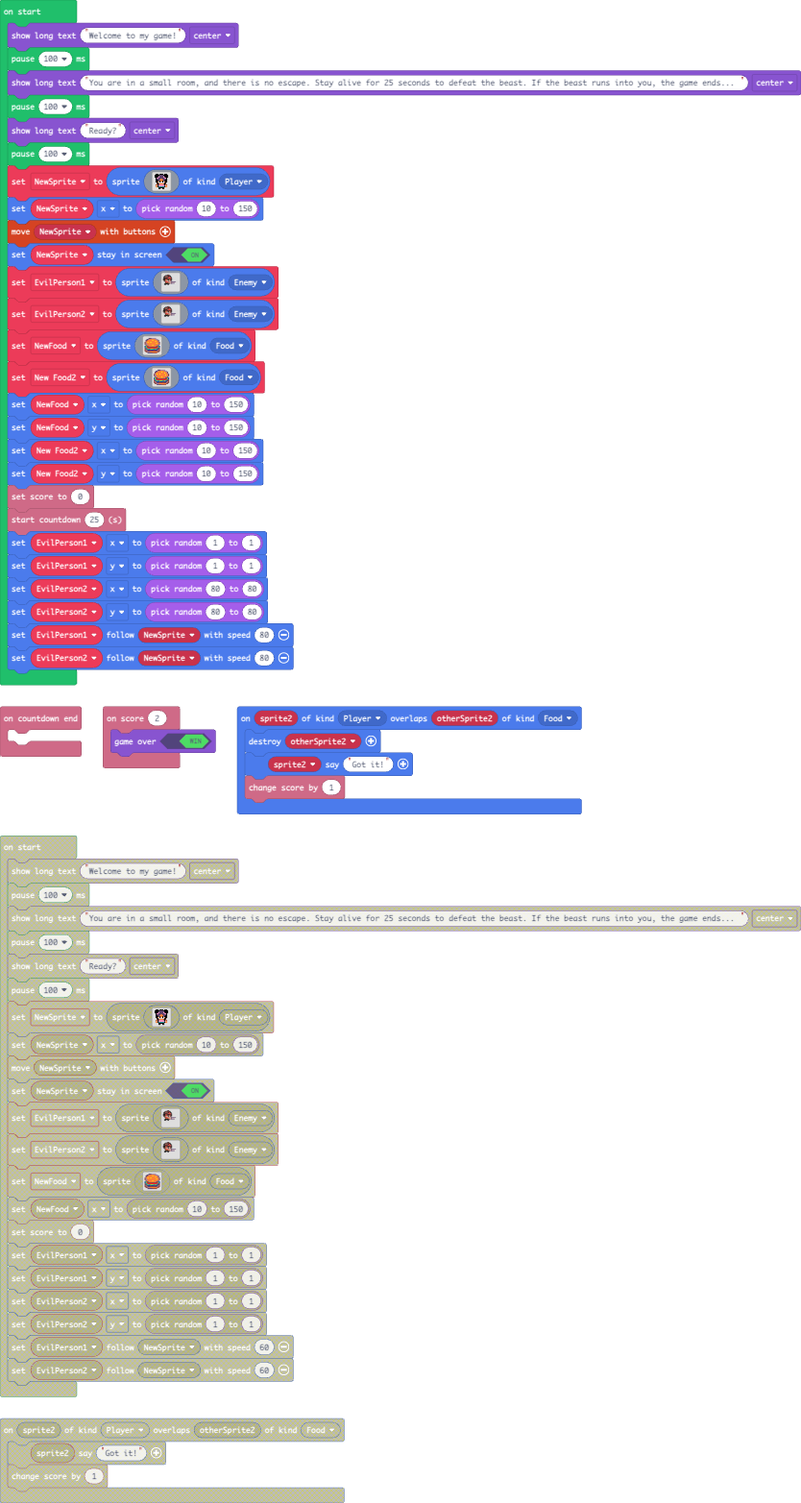
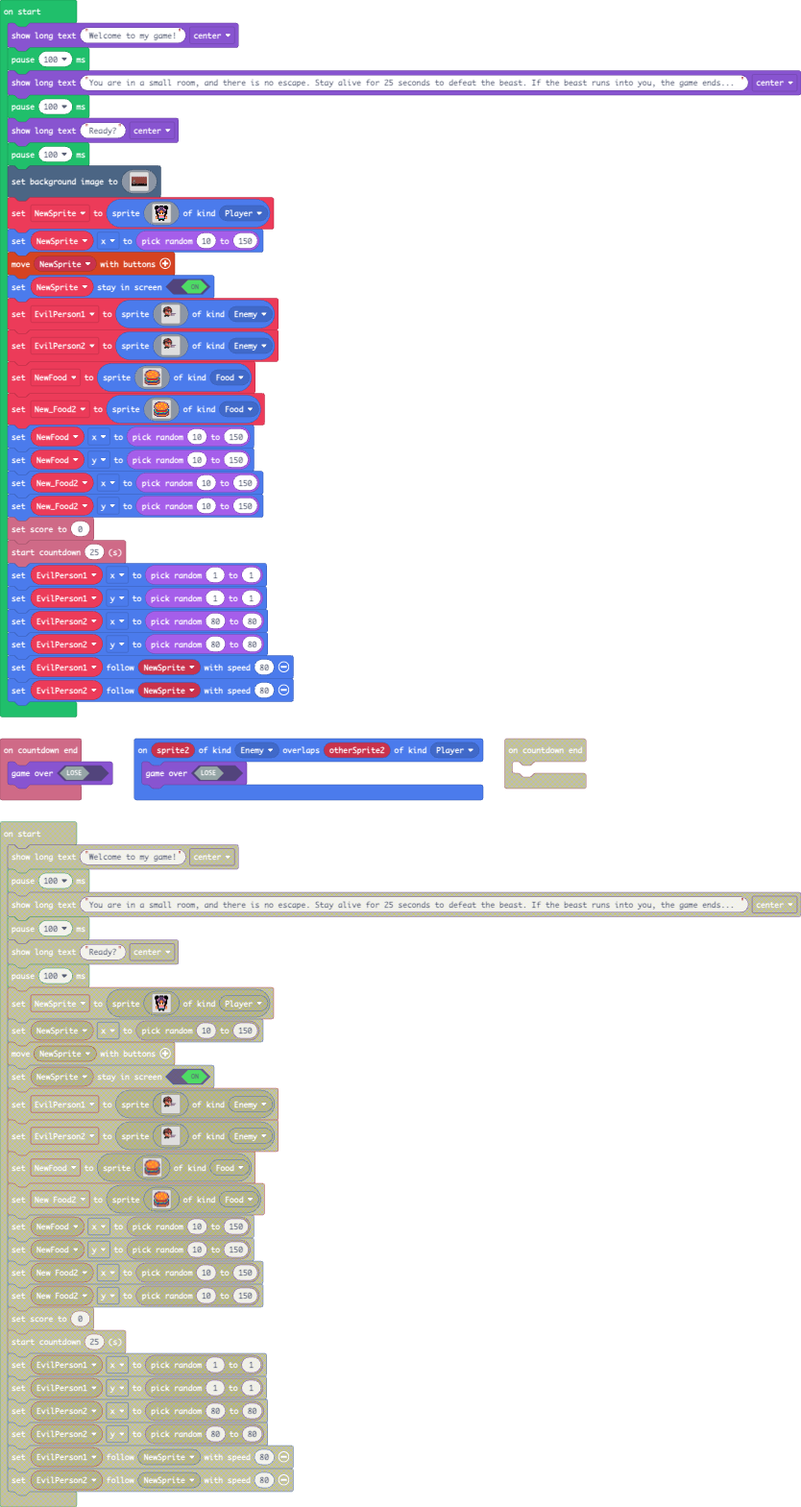
Update pxt.json, main.blocks, main.ts, main.py, tilemap.g.jres, tilemap.g.ts

Changed region(s): [[0.0, 0.0613, 1.0, 1.0]]

diff --git a/main.ts b/main.ts
@@ -1,5 +1,8 @@
+sprites.onOverlap(SpriteKind.Enemy, SpriteKind.Player, function (sprite2, otherSprite2) {
+    game.gameOver(false)
+})
 info.onCountdownEnd(function () {
-	
+    game.gameOver(false)
 })
 info.onScore(2, function () {
     game.gameOver(true)
@@ -15,6 +18,102 @@ game.showLongText("You are in a small room, and there is no escape. Stay alive f
 pause(100)
 game.showLongText("Ready?", DialogLayout.Center)
 pause(100)
+scene.setBackgroundImage(img`
+    beeeeebbbbbbbbbbbebbbeeeebbbbbbbbbebbbbbbbeeeeebbbbbbbbbbbebbbeeeeebbbbbbbbebbbbbbbeeeeebbbbbbbbbbbbebbbeeeebbbbbbbbebbbbbbbeeeeebbbbbbbbbbbbebbbeeeebbbbbbbbebb
+    eeebeeeebbbbeebbbbbeeeeeeeebbeeebbbbbebbeeeebeeeebbbbeebbbbbeeeeeeeeebbeebbbbbebbeeeebeeeebbbbeebbbbbbeeeeeeeebbeebbbbbebbeeeebeeeeebbbbeebbbbbeeeeeeeebbeebbbbb
+    eeeeeeeeebbbeebbbbeebeeeeeeebeeebbbbbbbeeeeeeeeeeebbbeebbbbeebeeeeeeeebeebbbbbbbeeeeeeeeeeebbbeebbbbbeebeeeeeeebeebbbbbbbeeeeeeeeeeeebbbeebbbbeebeeeeeeebeebbbbb
+    beeeeeeeeebbbbbbbeeeeeeeeeeeebbbbbbbbbeebbeeeeeeeeebbbbbbbeeeeeeeeeeeeebbbbbbbbeebbeeeeeeeeebbbbbbbbeeeeeeeeeeeebbbbbbbbeebbeeeeeeeeeebbbbbbbeeeeeeeeeeeebbbbbbb
+    beeeeeeeeeeebbbeeeeeeeeeebbeeeeebbbbeeeebbeeeeeeeeeeebbbeeeeeeeeeeebbeeeebbbbeeeebbeeeeeeeeeeebbbbeeeeeeeeeebbeeeebbbbeeeebbeeeeeeeeeeeebbbeeeeeeeeeebbeeeebbbbe
+    eeeeeeeeeeeeeeeeeeeeeeeeebbeeeeeeeeeeeeeeeeeeeeeeeeeeeeeeeeeeeeeeeebbeeeeeeeeeeeeeeeeeeeeeeeeeeeeeeeeeeeeeeebbeeeeeeeeeeeeeeeeeeeeeeeeeeeeeeeeeeeeeeebbeeeeeeeee
+    eeeeeeeebbeeeeeebbeeeeeeeeeeebeeeeeeebeeeeeeeeeeebbeeeeeebbeeeeeeeeeeeebeeeeeebeeeeeeeeeeebbeeeeeeebbeeeeeeeeeeebeeeeeebeeeeeeeeeeeebbeeeeeebbeeeeeeeeeeebeeeeee
+    eeeeeeeebbeeeeeebbeeeeeeeeeeeeeeebbeeeeeeeeeeeeeebbeeeeeebbeeeeeeeeeeeeeeebbeeeeeeeeeeeeeebbeeeeeeebbeeeeeeeeeeeeeebbeeeeeeeeeeeeeeebbeeeeeebbeeeeeeeeeeeeeebbee
+    eeeeeeeeeeeebeeeeeeeeeeeeeeeeeeeebbeeeeeeeeeeeeeeeeeebeeeeeeeeeeeeeeeeeeeebbeeeeeeeeeeeeeeeeeebeeeeeeeeeeeeeeeeeeeebbeeeeeeeeeeeeeeeeeeebeeeeeeeeeeeeeeeeeeebbee
+    eeeeeeeeeeeeeeeeeeeeeeeeeeeeeeeeeeeeeeeeeeeeeeeeeeeeeeeeeeeeeeeeeeeeeeeeeeeeeeeeeeeeeeeeeeeeeeeeeeeeeeeeeeeeeeeeeeeeeeeeeeeeeeeeeeeeeeeeeeeeeeeeeeeeeeeeeeeeeeee
+    eeeeeeeeeeeeeeeeeeeeeeeeeeeeeeeeeeeeeeeeeeeeeeeeeeeeeeeeeeeeeeeeeeeeeeeeeeeeeeeeeeeeeeeeeeeeeeeeeeeeeeeeeeeeeeeeeeeeeeeeeeeeeeeeeeeeeeeeeeeeeeeeeeeeeeeeeeeeeeee
+    eeeeeeeeeeeeeeeeeeeeeeeeeeeeeeeeeeeeeeeeeeeeeeeeeeeeeeeeeeeeeeeeeeeeeeeeeeeeeeeeeeeeeeeeeeeeeeeeeeeeeeeeeeeeeeeeeeeeeeeeeeeeeeeeeeeeeeeeeeeeeeeeeeeeeeeeeeeeeeee
+    eeeeeeeeeeeeeeeeeeeeeeeeeeeeeeeeeeeeeeeeeeeeeeeeeeeeeeeeeeeeeeeeeeeeeeeeeeeeeeeeeeeeeeeeeeeeeeeeeeeeeeeeeeeeeeeeeeeeeeeeeeeeeeeeeeeeeeeeeeeeeeeeeeeeeeeeeeeeeeee
+    eeeeeeeeeeeeeeeeeeeeeeeeeeeeeeeeeeeeeeeeeeeeeeeeeeeeeeeeeeeeeeeeeeeeeeeeeeeeeeeeeeeeeeeeeeeeeeeeeeeeeeeeeeeeeeeeeeeeeeeeeeeeeeeeeeeeeeeeeeeeeeeeeeeeeeeeeeeeeeee
+    eeeeeeeeeeeeeeeeeeeeeeeeeeeeeeeeeeeeeeeeeeeeeeeeeeeeeeeeeeeeeeeeeeeeeeeeeeeeeeeeeeeeeeeeeeeeeeeeeeeeeeeeeeeeeeeeeeeeeeeeeeeeeeeeeeeeeeeeeeeeeeeeeeeeeeeeeeeeeeee
+    eeeeeeeeffffeeeeeeeeeeeeeeeeeeeeeeeeeeeeeeeeeeeeeeeeeeeeeeeeeeeeeeeeeeeeeeeeeeeeeeeeeeeeeeeeeeeeeeeeeeeeeeeeeeeeeeeeeeeeeeeeeeeeeeeeeeeeeeeeeeeeeeeeeeeeeeeeeeee
+    eeeeeeeefdbfeeeeeeeeeeeeeeeeeeeeeeeeeeeeeeeeeeeeeeeeeeeeeeeeeeeeeeeeeeeeeeeeeeeeeeeeeeeeeeeeeeeeeeeeeeeeeeeeeeeeeeeeeeeeeeeeeeeeeeeeeeeeeeffffeeeeeeeeeeeeeeeeee
+    eeeeeeeefdbfeeeeeeeeeeeeeeeeeeeeeeeeeeeeeeeeeeeeeeeeeeeeeeeeeeeeeeeeeeeeeeeeeeeeeeeeeeeeeeeeeeeeeeeeeeeeeeeeeeeeeeeeeeeeeeeeeeeeeeeeeeeeeeffffeeeeeeeeeeeeeeeeee
+    eeeeeeffbddfeeeeeeeeeeeeeeeeeeeeeeeeeeeeeeeeeeeeeeeeeeeeeeeeeeeeeeeeeeeeeeeeeeeeeeeeeeeeeeeeeeeeeeeeeeeeeeeeeeeeeeeeeeeeeeeeeeeeeeeeeeeeeefdbfeeeeeeeeeeeeeeeeee
+    eeeeeefddddfeeeeeeeeeeeeeeeeeeeeeeeeeeeeeeeeeeeeeeeeeeeeeeeeeeeeeeeeeeeeeeeeeeeeeeeeeeeeeeeeeeeeeeeeeeeeeeeeeeeeeeeeeeeeeeeeeeeeeeeeeeeeffbddfeeeeeeeeeeeeeeeeee
+    eeeeeefbdddffeeeeeeeeeeeeeeeeeeeeeeeeeeeeeeeeeeeeeeeeeeeeeeeeeeeeeeeeeeeeeeeeeeeeeeeeeeeeeeeeeeeeeeeeeeeeeeeeeeeeeeeeeeeeeeeeeeeeeeeeeeefddddffeeeeeeeeeeeeeeeee
+    eeeeeeffffbdffeeeeeeeeeeeeeeeeeeeeeeeeeeeeeeeeeeeeeeeeeeeeeeeeeeeeeeeeeeeeeeeeeeeeeeeeeeeeeeeeeeeeeeeeeeeeeeeeeeeeeeeeeeeeeeeeeeeeeeeeeefbdddbffeeeeeeeeeeeeeeee
+    eeeeeeeeeffddfffffeeeeeeeeeeeeeeeeeeeeeeeeeeeeeeeeeeeeeeeeeeeeeeeeeeeeeeeeeeeeeeeeeeeeeeeeeeeeeeeeeeeeeeeeeeeeeeeeeeeeeeeeeeeeeeeeeeeeeefffffddffeeeeeeeeeeeeeee
+    eeeeeeeeeeffbdddbfeeeeeeeeeeeeeeeeeeeeeeeeeeeeeeeeeeeeeeeeeeeeeeeeeeeeeeeeeeeeeeeeeeeeeeeeeeeeeeeeeeeeeeeeeeeeeeeeeeeeeeeeeeeeeeeeeeeeeeeeeeffddffeeeeeeeeeeeeee
+    eeeeeeeeeeeffddddfeeeeeeeeeeeeeeeeeeeeeeeeeeeeeeeeeeeeeeeeeeeeeeeeeeeeeeeeeeeeeeeeeeeeeeeeeeeeeeeeeeeeeeeeeeeeeeeeeeeeeeeeeeeeeeeeeeeeeeeeeeeffddffeeeeeeeeeeeee
+    eeeeeeeeeeeefddbffeeeeeeeeeeeeeeeeeeeeeeeeeeeeeeeeeeeeeeeeeeeeeeeeeeeeeeeeeeeeeeeeeeeeeeeeeeeeeeeeeeeeeeeeeeeeeeeeeeeeeeeeeeeeeeeeeeeeeeeeeeeeffdbffffeeeeeeeeee
+    eeeeeeeeeeeefbdfeeeeeeeeeeeeeeeeeeeeeeeeeeeeeeeeeeeeeeeeeeeeeeeeeeeeeeeeeeeeeeeeeeeeeeeeeeeeeeeeeeeeeeeeeeeeeeeeeeeeeeeeeeeeeeeeeeeeeeeeeeeeeeeffdddbfeeeeeeeeee
+    eeeeeeeeeeeeffffeeeeeeeeeeeeeeeeeeeeeeeeeeeeeeeeeeeeeeeeeeeeeeeeeeeeeeeeeeeeeeeeeeeeeeeeeeeeeeeeeeeeeeeeeeeeeeeeeeeeeeeeeeeeeeeeeeeeeeeeeeeeeeeefddddfeeeeeeeeee
+    eeeeeeeeeeeeeeeeeeeeeeeeeeeeeeeeeeeeeeeeeeeeeeeeeeeeeeeeeeeeeeeeeeeeeeeeeeeeeeeeeeeeeeeeeeeeeeeeeeeeeeeeeeeeeeeeeeeeeeeeeeeeeeeeeeeeeeeeeeeeeeeefddbffeeeeeeeeee
+    eeeeeeeeeeeeeeeeeeeeeeeeeeeeeeeeeeeeeeeeeeeeeeeeeeeeeeeeeeeeeeeeeeeeeeeeeeeeeeeeeeeeeeeeeeeeeeeeeeeeeeeeeeeeeeeeeeeeeeeeeeeeeeeeeeeeeeeeeeeeeeeefbdfeeeeeeeeeeee
+    eeeeeeeeeeeeeeeeeeeeeeeeeeeeeeeeeeeeeeeeeeeeeeeeeeeeeeeeeeeeeeeeeeeeeeeeeeeeeeeeeeeeeeeeeeeeeeeeeeeeeeeeeeeeeeeeeeeeeeeeeeeeeeeeeeeeeeeeeeeeeeeeffffeeeeeeeeeeee
+    eeeeeeeeeeeeeeeeeeeeeeeeeeeeeeeeeeeeeeeeeeeeeeeeeeeeeeeeeeeeeeeeeeeeeeeeeeeeeeeeeeeeeeeeeeeeeeeeeeeeeeeeeeeeeeeeeeeeeeeeeeeeeeeeeeeeeeeeeeeeeeeeeeeeeeeeeeeeeeee
+    eeeeeeeeeeeeeeeeeeeeeeeeeeeeeeeeeeeeeeeeeeeeeeeeeeeeeeeeeeeeeeeeeeeeeeeeeeeeeeeeeeeeeeeeeeeeeeeeeeeeeeeeeeeeeeeeeeeeeeeeeeeeeeeeeeeeeeeeeeeeeeeeeeeeeeeeeeeeeeee
+    eeeeeeeeeeeeeeeeeeeeeeeeeeeeeeeeeeeefffffffeeeeeeeeeeeeeeeeeeeeeeeeeeeeeeeeeeeeeeeeeeeeeeeeeeeeeeeeeeeeeeeeeeeeeeeeeeeeeeeeeeeeeeeeeeeeeeeeeeeeeeeeeeeeeeeeeeeee
+    eeeeeeeeeeeeeeeeeeeeeeeefffffffffffffddddddffeeeeeeeeeeeeeeeeeeeeeeeeeeeeeeeeeeeeeeeeeeeeeeeeeeeeeeeeeeeeeeeeeeeeeeeeeeeeeeeeeeeeeeeeeeeeeeeeeeeeeeeeeeeeeeeeeee
+    eeeeeeeeeeeeeeeeeeeeeefffdddddddddddddffddddfeeeeeeeeeeeeeeeeeeeeeeeeeeeeeeeeeeeeeeeeeeeeeeeeeeeeeeeeeeeeeeeeeeeeeeeeeeeeeeeeeeeeeeeeeeeeeeeeeeeeeeeeeeeeeeeeeee
+    eeeeeeeeeeeeeeeeeeeeeefffdddddddddddddffddddfeeeeeeeeeeeeeeeeeeeeeeeeeeeeeeeeeeeeeeeeeeeeeeeeeeeeeeeeeeeeeeeeeeeeeeeeeeeeeeeeeeeeeeeeeeeeeeeeeeeeeeeeeeeeeeeeeee
+    eeeeeeeeeeeeeeeeeeeeeffdddddddddffffdddffdddfeeeeeeeeeeeeeeeeeeeeeeeeeeeeeeeeeeeeeeeeeeeeeeeeeeeeeeeeeeeeeeeeeeeeeeeeeeeeeeeeeeeeeeeeeeeeeeeeeeeeeeeeeeeeeeeeeee
+    eeeeeeeeeeeeeeeeeeeeffdddfffddffffffdddddddffeeeeeeeeeeeeeeeeeeeeeeeeeeeeeeeeeeeeeeeeeeeeeeeeeeeeeeeeeeeeeeeeeeeeeeeeeeeeeeeeeeeeeeeeeeeeeeeeeeeeeeeeeeeeeeeeeee
+    eeeeeeeeeeeeeeeeeeeffdddfffffdfffffddddddbdfeeeeeeeeeeeeeeeeeeeeeeeeeeeeeeeeeeeeeeeeeeeeeeeeeeeeeeeeeeeeeeeeeeeeeeeeeeeeeeeeeeeeeeeeeeeeeeeeeeeeeeeeeeeeeeeeeeee
+    eeeeeeeeeeeeeeeeeeffdddffffffdddddddddbfdfdfeeeeeeeeeeeeeeeeeeeeeeeeeeeeeeeeeeeeeeeeeeeeeeeeeeeeeeeeeeeeeeeeeeeeeeeeeeeeeeeeeeeeeeeeeeeeeeeeeeeeeeeeeeeeeeeeeeee
+    eeeeeeeeeeeeeeeeeefddddfffffddddddddfdffdfdfeeeeeeeeeeeeeeeeeeeeeeeeeeeeeeeeeeeeeeeeeeeeeeeeeeeeeeeeeeeeeeeeeeeeeeeeeeeeeeeeeeeeeeeeeeeeeeeeeeeeeeeeeeeeeeeeeeee
+    eeeeeeeeeeeeeeeeeefdddddfffdddddfffdffffffffeeeeeeeeeeeeeeeeeeeeeeeeeeeeeeeeeeeeeeeeeeeeeeeeeeeeeeeeeeeeeeeeeeeeeeeeeeeeeeeeeeeeeeeeeeeeeeeeeeeeeeeeeeeeeeeeeeee
+    eeeeeeeeeeeeeeeeeefdddddddddfffffefffeeeeeeeeeeeeeeeeeeeeeeeeeeeeeeeeeeeeeeeeeeeeeeeeeeeeeeeeeeeeeeeeeeeeeeeeeeeeeeeeeeeeeeeeeeeeeeeeeeeeeeeeeeeeeeeeeeeeeeeeeee
+    eeeeeeeeeeeeeeeeeeffdddbbbbffeeeeeeeeeeeeeeeeeeeeeeeeeeeeeeeeeeeeeeeeeeeeeeeeeeeeeeeeeeeeeeeeeeeeeeeeeeeeeeeeeeeeeeeeeeeeeeeeeeeeeeeeeeeeeeeeeeeeeeeeeeeeeeeeeee
+    eeeeeeeeeeeeeeeefffffbddddbbfffffeeeeeeeeeeeeeeeeeeeeeeeeeeeeeeeeeeeeeeeeeeeeeeeeeeeeeeeeeeeeeeeeeeeeeeeeeeeeeeeeeeeeeeeeeeeeeeeeeeeeeeeeeeeeeeeeeeeeeeeeeeeeeee
+    eeeeeeeeeeeeeeeefdffefddddddddddffffffffffffeeeeeeeeeeeeeeeeeeeeeeeeeeeeeeeeeeeeeeeeeeeeeeeeeeeeeeeeeeeeeeeeeeeeeeeeeeeeeeeeeeeeeeeeeeeeeeeeeeeeeeeeeeeeeeeeeeee
+    eeeeeeeeeeeeeeeefddfffdddddddddddffddddfdfdfeeeeeeeeeeeeeeeeeeeeeeeeeeeeeeeeeeeeeeeeeeeeeeeeeeeeeeeeeeeeeeeeeeeeeeeeeeeeeeeeeeeeeeeeeeeeeeeeeeeeeeeeeeeeeeeeeeee
+    eeeeeeeeeeeeeefffbbdfffddddddddddddddddbdbdfeeeeeeeeeeeeeeeeeeeeeeeeeeeeeeeeeeeeeeeeeeeeeeeeeeeeeeeeeeeeeeeeeeeeeeeeeeeeeeeeeeeeeeeeeeeeeeeeeeeeeeeeeeeeeeeeeeee
+    eeeeeeeeeeeefffddfffffeffdddddddddddddddddffeeeeeeeeeeeeeeeeeeeeeeeeeeeeeeeeeeeeeeeeeeeeeeeeeeeeeeeeeeeeeeeeeeeeeeeeeeeeeeeeeeeeeeeeeeeeeeeeeeeeeeeeeeeeeeeeeeee
+    eeeeeeeeeeeefdbbdddfbfeeffffdddddddffffffffeeeeeeeeeeeeeeeeeeeeeeeeeeeeeeeeeeeeeeeeeeeeeeeeeeeeeeeeeeeeeeeeeeeeeeeeeeeeeeeeeeeeeeeeeeeeeeeeeeeeeeeeeeeeeeeeeeeee
+    eeeeeeeeeeeefddbbfffdfeeeeefffffffffeeeeeeeeeeeeeeeeeeeeeeeeeeeeeeeeeeeeeeeeeeeeeeeeeeeeeeeeeeeeeeeeeeeeeeeeeeeeeeeeeeeeeeeeeeeeeeeeeeeeeeeeeeeeeeeeeeeeeeeeeeee
+    eeeeeeeeeeffffdddfefdffeeeeeeeeeeeeeeeeeeeeeeeeeeeeeeeeeeeeeeeeeeeeeeeeeeeeeeeeeeeeeeeeeeeeeeeeeeeeeeeeeeeeeeeeeeeeeeeeeeeeeeeeeeeeeeeeeeeeeeeeeeeeeeeeeeeeeeeee
+    eeeeeeeeeefbbfffffffddffeeeefffffeeeeefffffeeeeeeeeeeeeeeeeeeeeeeeeeeeeeeeeeeeeeeeeeeeeeeeeeeeeeeeeeeeeeeeeeeeeeeeeeeeeeeeeeeeeeeeeeeeeeeeeeeeeeeeeeeeeeeeeeeeee
+    eeeeeeeeeeffbbbfffdbdddffffefdddbfffffbdddffeeeeeeeeeeeeeeeeeeeeeeeeeeeeeeeeeeeeeeeeeeeeeeeeeeeeeeeeeeeeeeeeeeeeeeeeeeeeeeeeeeeeeeeeeeeeeeeeeeeeeeeeeeeeeeeeeeee
+    eeeeeeeeeeefffffdfdbbdddddfefddddddddbbbbddfeeeeeeeeeeeeeeeeeeeeeeeeeeeeeeeeeeeeeeeeeeeeeeeeeeeeeeeeeeeeeeeeeeeeeeeeeeeeeeeeeeeeeeeeeeeeeeeeeeeeeeeeeeeeeeeeeeee
+    eeeeeeeeeeefffffdfdbbdddddfefddddddddbbbbddfeeeeeeeeeeeeeeeeeeeeeeeeeeeeeeeeeeeeeeeeeeeeeeeeeeeeeeeeeeeeeeeeeeeeeeeeeeeeeeeeeeeeeeeeeeeeeeeeeeeeeeeeeeeeeeeeeeee
+    eeeeeeeeeeffbbbfdbddbbbffffeffffffdddbddbfdfeeeeeeeeeeeeeeeeeeeeeeeeeeeeeeeeeeeeeeeeeeeeeeeeeeeeeeeeeffffeeeeeeeeeeeeeeeeeeeeeeeeeeeeeeeeeeeeeeeeeeeeeeeeeeeeeee
+    eeeeeeeeeefbbfffdbbdddffffffeeeeeffffbbbdfffeeeeeeeeeeeeeeeeeeeeeeeeeeeeeeeeeeeeeeeeeeeeeeeeeeeeeeeeefbdfeeeeeeeeeeeeeeeeeeeeeeeeeeeeeeeeeeeeeeeeeeeeeeeeeeeeeee
+    eeeeeeeeeefffffbddbbdddddddfeeeeeeeeffdbdfeeeeeeeeeeeeeeeeeeeeeeeeeeeeeeeeeeeeeeeeeeeeeeeeeeeeeeeeeeefddbffeeeeeeeeeeeeeeeeeeeeeeeeeeeeeeeeeeeeeeeeeeeeeeeeeeeee
+    eeeeeeeeeefbbfdbbddbbfffffffeeeeeeeffddfdfeeeeeeeeeeeeeeeeeeeeeeeeeeeeeeeeeeeeeeeeeeeeeeeeeeeeeeeeeeffddddfeeeeeeeeeeeeeeeeeeeeeeeeeeeeeeeeeeeeeeeeeeeeeeeeeeeee
+    eeeeeeeeeefbffdbbbdddddddfeeeeeeeeefddffffeeeeeeeeeeeeeeeeeeeeeeeeeeeeeeeeeeeeeeeeeeeeeeeeeeeeeeeeeffbdddbfeeeeeeeeeeeeeeeeeeeeeeeeeeeeeeeeeeeeeeeeeeeeeeeeeeeee
+    eeeeeeeeeeffffdddbbfffffffeeeeeeeeeffffffffffeeeeeeeeeeeeeeeeeeeeeeeeeeeeeeeeeeeeeeeeeeeeeeeeeeeeeffddfffffeeeeeeeeeeeeeeeeeeeeeeeeeeeeeeeeeeeeeeeeeeeeeeeeeeeee
+    eeeeeeeeeeffdffdddfeeeeeeeeeeeeeeeeeeeffdffdfeeeeeeeeeeeeeeeeeeeeeeeeeeeeeeeeeeeeeeeeeeeeeeeeeeefffddffeeeeeeeeeeeeeeeeeeeeeeeeeeeeeeeeeeeeeeeeeeeeeeeeeeeeeeeee
+    eeeeeeeeeffddffffffeeeeeeeeeeeeeeeeeeefddffdffeeeeeeeeeeeeeeeeeeeeeeeeeeeeeeeeeeeeeeeeeeeeeeeeefffddffeeeeeeeeeeeeeeeeeeeeeeeeeeeeeeeeeeeeeeeeeeeeeeeeeeeeeeeeee
+    eeeeeeeeefddbffffeeeeeeeeeeffffffffeeffddffdbfeeeeeeeeeeeeeeeeeeeeeeeeeeeeeeeeeeeeeeeeeeeeeeffffbbdffeeeeeeeeeeeeeeeeeeeeeeeeeeeeeeeeeeeeeeeeeeeeeeeeeeeeeeeeeee
+    eeeeeeeeeffbbfddfeeeeeeeeeefddbbbdffefddfffddfeeeeeeeeeeeeeeeeeeeeeeeeeeeeeeeeeeeeeeeeeeeeeefbddddffeeeeeeeeeeeeeeeeeeeeeeeeeeeeeeeeeeeeeeeeeeeeeeeeeeeeeeeeeeee
+    feeeeeeeeefdddbbffeeeeeeeeffddbbdddfefdffffbdfeeeeeeeeeeeeeeeeeeeeeeeeeeeeeeeeeeeefeeeeeeeeefdddddfeeeeeeeeeeeeeeeeeeeeeeeefeeeeeeeeeeeeeeeeeeeeeeeeeeeeeeeeeeee
+    eeeeeeeefefffbbddfeeeeeeeefddffffddfffffeffbffeeefeeeeeeeeeeeeeeeeeeefeeeeeeeeeeeeeeeeeeeefeffbdddfeeeeeeeeeeefeeeeeeeeeeeeeeeeeeeeefeeeeeeeeeeeeeeeeeefeeeeeeee
+    efffffeeeeeefdddbffeeffffffddfeeffddfffeefdbfffeeeeeeeeeeefeeefffffeeeeeeeefeeeeeeefffffeeeeeefdbbfefeeeffffeeeeeeeefeeeeeeefffffeeeeeefffffefeeeffffeeeeeeeefee
+    fffeffffeeeefdfbbdfffffffbddffffeffdffeeffddfffffeeeeffeeeeefffffffffeeffeeeeefeeffffeffffeeeefffffeeeffffffffeeffeeeeefeeffffefffffeeefbdbfeeeffffffffeeffeeeee
+    fffffffffeeefffbdbffddddffbdffffeefffeefffbdffffffeeeffeeeeffeffffffffeffeeeeeeefffffffffffeeeffeeeeeffefffffffeffeeeeeeefffffffffffffffdddfeeffefffffffeffeeeee
+    efffffffffeeeefddffbdffddfbbfeeeeeeeeefffdbbfffffffeeeeeeefffffffffffffeeeeeeeeffeefffffffffeeeeeeeeffffffffffffeeeeeeeeffeeffffffffffbdddbffffffffffffffeeeeeee
+    efffffffffffeefffffddfffdeffffffeeeeffffbddffffffffffeeefffffffffffeeffffeeeeffffeefffffffffffeeeeffffffffffeeffffeeeeffffeeffffffffffddddddbffffffffeeffffeeeef
+    fffffffffffffffffffdddffdddffffffffffffdbbdfffffffffffffffffffbddbfeefffffffffffffffffffffffffffffffffffffffeeffffffffffffffffffffffffbddbddddbfffffffefffffffff
+    fffffffffffffffffffdddffdddffffffffffffdbbdfffffffffffffffffffbddbfeefffffffffffffffffffffffffffffffffffffffeeffffffffffffffffffffffffbddbddddbfffffffefffffffff
+    ffffffffeeffffffeefffddddddfffffffffdbddfffffffffeeffffffeefffddddfffffeffffffefffffffffffeefffffffeefffffffffffeffffffeffffffffffffeffffffbddddbbddbffffeffffff
+    ffffffffeeffffffeefffddddddfffdddbbddbdffffffffffeeffffffeefffbddddbffffffeeffffffffffffffeefffffffeeffffffffffffffeefffffffffffffffeefffffffbdddddddfffffffeeff
+    ffffffffffffefffffffffdddddffdddfbddfffffffffffffffffeffffffbdddddddffffffeeffffffffffffffffffeffffffffffffffffffffeefffffffffffffffffffefffffffdddddfffffffeeff
+    fffffffffffffffffffffffdddffffffffffffffffffffffffffffffffbddddbbddbffffffffffffffffffffffffffffffffffffffffffffffffffffffffffffffffffffffffffffdddbffffffffffff
+    ffffffffffffffffffffffffffffffffffffffffffffffffffffbddbbddddbffffffffffffffffffffffffffffffffffffffffffffffffffffffffffffffffffffffffffffffffffbddfffffffffffff
+    ffffffffffffffffffffffffffffffffffffffffffffffffffffdddddddbffffffffffffffffffffffffffffffffffffffffffffffffffffffffffffffffffffffffffffffffffffffffffffffffffff
+    ffffffffffffffffffffffffffffffffffffffffffffffffffffdddddfffffffffffffffffffffffffffffffffffffffffffffffffffffffffffffffffffffffffffffffffffffffffffffffffffffff
+    fffffffffffffffffffffffffffffffffffffffffffffffffffffbdddfffffffffffffffffffffffffffffffffffffffffffffffffffffffffffffffffffffffffffffffffffffffffffffffffffffff
+    ffffffffffffffffffffffffffffffffffffffffffffffffffffffddbfffffffffffffffffffffffffffffffffffffffffffffffffffffffffffffffffffffffffffffffffffffffffffffffffffffff
+    ffffffffffffffffffffffffffffffffffffffffffffffffffffffffffffffffffffffffffffffffffffffffffffffffffffffffffffffffffffffffffffffffffffffffffffffffffffffffffffffff
+    ffffffffffffffffffffffffffffffffffffffffffffffffffffffffffffffffffffffffffffffffffffffffffffffffffffffffffffffffffffffffffffffffffffffffffffffffffffffffffffffff
+    ffffffffffffffffffffffffffffffffffffffffffffffffffffffffffffffffffffffffffffffffffffffffffffffffffffffffffffffffffffffffffffffffffffffffffffffffffffffffffffffff
+    ffffffffffffffffffffffffffffffffffffffffffffffffffffffffffffffffffffffffffffffffffffffffffffffffffffffffffffffffffffffffffffffffffffffffffffffffffffffffffffffff
+    ffffffffffffffffffffffffffffffffffffffffffffffffffffffffffffffffffffffffffffffffffffffffffffffffffffffffffffffffffffffffffffffffffffffffffffffffffffffffffffffff
+    ffffffffffffffffffffffffffffffffffffffffffffffffffffffffffffffffffffffffffffffffffffffffffffffffffffffffffffffffffffffffffffffffffffffffffffffffffffffffffffffff
+    ffffffffffffffffffffffffffffffffffffffffffffffffffffffffffffffffffffffffffffffffffffffffffffffffffffffffffffffffffffffffffffffffffffffffffffffffffffffffffffffff
+    ffffffffffffffffffffffffffffffffffffffffffffffffffffffffffffffffffffffffffffffffffffffffffffffffffffffffffffffffffffffffffffffffffffffffffffffffffffffffffffffff
+    ffffffffffffffffffffffffffffffffffffffffffffffffffffffffffffffffffffffffffffffffffffffffffffffffffffffffffffffffffffffffffffffffffffffffffffffffffffffffffffffff
+    `)
 let NewSprite = sprites.create(assets.image`Hero`, SpriteKind.Player)
 NewSprite.x = randint(10, 150)
 controller.moveSprite(NewSprite)

diff --git a/tilemap.g.ts b/tilemap.g.ts
@@ -1,0 +1,14 @@
+// Auto-generated code. Do not edit.
+namespace myTiles {
+    //% fixedInstance jres blockIdentity=images._tile
+    export const transparency16 = image.ofBuffer(hex``);
+
+    helpers._registerFactory("tile", function(name: string) {
+        switch(helpers.stringTrim(name)) {
+            case "transparency16":return transparency16;
+        }
+        return null;
+    })
+
+}
+// Auto-generated code. Do not edit.

diff --git a/main.py b/main.py
@@ -19,6 +19,102 @@ game.show_long_text("You are in a small room, and there is no escape. Stay alive
 pause(100)
 game.show_long_text("Ready?", DialogLayout.CENTER)
 pause(100)
+scene.set_background_image(img("""
+    beeeeebbbbbbbbbbbebbbeeeebbbbbbbbbebbbbbbbeeeeebbbbbbbbbbbebbbeeeeebbbbbbbbebbbbbbbeeeeebbbbbbbbbbbbebbbeeeebbbbbbbbebbbbbbbeeeeebbbbbbbbbbbbebbbeeeebbbbbbbbebb
+    eeebeeeebbbbeebbbbbeeeeeeeebbeeebbbbbebbeeeebeeeebbbbeebbbbbeeeeeeeeebbeebbbbbebbeeeebeeeebbbbeebbbbbbeeeeeeeebbeebbbbbebbeeeebeeeeebbbbeebbbbbeeeeeeeebbeebbbbb
+    eeeeeeeeebbbeebbbbeebeeeeeeebeeebbbbbbbeeeeeeeeeeebbbeebbbbeebeeeeeeeebeebbbbbbbeeeeeeeeeeebbbeebbbbbeebeeeeeeebeebbbbbbbeeeeeeeeeeeebbbeebbbbeebeeeeeeebeebbbbb
+    beeeeeeeeebbbbbbbeeeeeeeeeeeebbbbbbbbbeebbeeeeeeeeebbbbbbbeeeeeeeeeeeeebbbbbbbbeebbeeeeeeeeebbbbbbbbeeeeeeeeeeeebbbbbbbbeebbeeeeeeeeeebbbbbbbeeeeeeeeeeeebbbbbbb
+    beeeeeeeeeeebbbeeeeeeeeeebbeeeeebbbbeeeebbeeeeeeeeeeebbbeeeeeeeeeeebbeeeebbbbeeeebbeeeeeeeeeeebbbbeeeeeeeeeebbeeeebbbbeeeebbeeeeeeeeeeeebbbeeeeeeeeeebbeeeebbbbe
+    eeeeeeeeeeeeeeeeeeeeeeeeebbeeeeeeeeeeeeeeeeeeeeeeeeeeeeeeeeeeeeeeeebbeeeeeeeeeeeeeeeeeeeeeeeeeeeeeeeeeeeeeeebbeeeeeeeeeeeeeeeeeeeeeeeeeeeeeeeeeeeeeeebbeeeeeeeee
+    eeeeeeeebbeeeeeebbeeeeeeeeeeebeeeeeeebeeeeeeeeeeebbeeeeeebbeeeeeeeeeeeebeeeeeebeeeeeeeeeeebbeeeeeeebbeeeeeeeeeeebeeeeeebeeeeeeeeeeeebbeeeeeebbeeeeeeeeeeebeeeeee
+    eeeeeeeebbeeeeeebbeeeeeeeeeeeeeeebbeeeeeeeeeeeeeebbeeeeeebbeeeeeeeeeeeeeeebbeeeeeeeeeeeeeebbeeeeeeebbeeeeeeeeeeeeeebbeeeeeeeeeeeeeeebbeeeeeebbeeeeeeeeeeeeeebbee
+    eeeeeeeeeeeebeeeeeeeeeeeeeeeeeeeebbeeeeeeeeeeeeeeeeeebeeeeeeeeeeeeeeeeeeeebbeeeeeeeeeeeeeeeeeebeeeeeeeeeeeeeeeeeeeebbeeeeeeeeeeeeeeeeeeebeeeeeeeeeeeeeeeeeeebbee
+    eeeeeeeeeeeeeeeeeeeeeeeeeeeeeeeeeeeeeeeeeeeeeeeeeeeeeeeeeeeeeeeeeeeeeeeeeeeeeeeeeeeeeeeeeeeeeeeeeeeeeeeeeeeeeeeeeeeeeeeeeeeeeeeeeeeeeeeeeeeeeeeeeeeeeeeeeeeeeeee
+    eeeeeeeeeeeeeeeeeeeeeeeeeeeeeeeeeeeeeeeeeeeeeeeeeeeeeeeeeeeeeeeeeeeeeeeeeeeeeeeeeeeeeeeeeeeeeeeeeeeeeeeeeeeeeeeeeeeeeeeeeeeeeeeeeeeeeeeeeeeeeeeeeeeeeeeeeeeeeeee
+    eeeeeeeeeeeeeeeeeeeeeeeeeeeeeeeeeeeeeeeeeeeeeeeeeeeeeeeeeeeeeeeeeeeeeeeeeeeeeeeeeeeeeeeeeeeeeeeeeeeeeeeeeeeeeeeeeeeeeeeeeeeeeeeeeeeeeeeeeeeeeeeeeeeeeeeeeeeeeeee
+    eeeeeeeeeeeeeeeeeeeeeeeeeeeeeeeeeeeeeeeeeeeeeeeeeeeeeeeeeeeeeeeeeeeeeeeeeeeeeeeeeeeeeeeeeeeeeeeeeeeeeeeeeeeeeeeeeeeeeeeeeeeeeeeeeeeeeeeeeeeeeeeeeeeeeeeeeeeeeeee
+    eeeeeeeeeeeeeeeeeeeeeeeeeeeeeeeeeeeeeeeeeeeeeeeeeeeeeeeeeeeeeeeeeeeeeeeeeeeeeeeeeeeeeeeeeeeeeeeeeeeeeeeeeeeeeeeeeeeeeeeeeeeeeeeeeeeeeeeeeeeeeeeeeeeeeeeeeeeeeeee
+    eeeeeeeeeeeeeeeeeeeeeeeeeeeeeeeeeeeeeeeeeeeeeeeeeeeeeeeeeeeeeeeeeeeeeeeeeeeeeeeeeeeeeeeeeeeeeeeeeeeeeeeeeeeeeeeeeeeeeeeeeeeeeeeeeeeeeeeeeeeeeeeeeeeeeeeeeeeeeeee
+    eeeeeeeeffffeeeeeeeeeeeeeeeeeeeeeeeeeeeeeeeeeeeeeeeeeeeeeeeeeeeeeeeeeeeeeeeeeeeeeeeeeeeeeeeeeeeeeeeeeeeeeeeeeeeeeeeeeeeeeeeeeeeeeeeeeeeeeeeeeeeeeeeeeeeeeeeeeeee
+    eeeeeeeefdbfeeeeeeeeeeeeeeeeeeeeeeeeeeeeeeeeeeeeeeeeeeeeeeeeeeeeeeeeeeeeeeeeeeeeeeeeeeeeeeeeeeeeeeeeeeeeeeeeeeeeeeeeeeeeeeeeeeeeeeeeeeeeeeffffeeeeeeeeeeeeeeeeee
+    eeeeeeeefdbfeeeeeeeeeeeeeeeeeeeeeeeeeeeeeeeeeeeeeeeeeeeeeeeeeeeeeeeeeeeeeeeeeeeeeeeeeeeeeeeeeeeeeeeeeeeeeeeeeeeeeeeeeeeeeeeeeeeeeeeeeeeeeeffffeeeeeeeeeeeeeeeeee
+    eeeeeeffbddfeeeeeeeeeeeeeeeeeeeeeeeeeeeeeeeeeeeeeeeeeeeeeeeeeeeeeeeeeeeeeeeeeeeeeeeeeeeeeeeeeeeeeeeeeeeeeeeeeeeeeeeeeeeeeeeeeeeeeeeeeeeeeefdbfeeeeeeeeeeeeeeeeee
+    eeeeeefddddfeeeeeeeeeeeeeeeeeeeeeeeeeeeeeeeeeeeeeeeeeeeeeeeeeeeeeeeeeeeeeeeeeeeeeeeeeeeeeeeeeeeeeeeeeeeeeeeeeeeeeeeeeeeeeeeeeeeeeeeeeeeeffbddfeeeeeeeeeeeeeeeeee
+    eeeeeefbdddffeeeeeeeeeeeeeeeeeeeeeeeeeeeeeeeeeeeeeeeeeeeeeeeeeeeeeeeeeeeeeeeeeeeeeeeeeeeeeeeeeeeeeeeeeeeeeeeeeeeeeeeeeeeeeeeeeeeeeeeeeeefddddffeeeeeeeeeeeeeeeee
+    eeeeeeffffbdffeeeeeeeeeeeeeeeeeeeeeeeeeeeeeeeeeeeeeeeeeeeeeeeeeeeeeeeeeeeeeeeeeeeeeeeeeeeeeeeeeeeeeeeeeeeeeeeeeeeeeeeeeeeeeeeeeeeeeeeeeefbdddbffeeeeeeeeeeeeeeee
+    eeeeeeeeeffddfffffeeeeeeeeeeeeeeeeeeeeeeeeeeeeeeeeeeeeeeeeeeeeeeeeeeeeeeeeeeeeeeeeeeeeeeeeeeeeeeeeeeeeeeeeeeeeeeeeeeeeeeeeeeeeeeeeeeeeeefffffddffeeeeeeeeeeeeeee
+    eeeeeeeeeeffbdddbfeeeeeeeeeeeeeeeeeeeeeeeeeeeeeeeeeeeeeeeeeeeeeeeeeeeeeeeeeeeeeeeeeeeeeeeeeeeeeeeeeeeeeeeeeeeeeeeeeeeeeeeeeeeeeeeeeeeeeeeeeeffddffeeeeeeeeeeeeee
+    eeeeeeeeeeeffddddfeeeeeeeeeeeeeeeeeeeeeeeeeeeeeeeeeeeeeeeeeeeeeeeeeeeeeeeeeeeeeeeeeeeeeeeeeeeeeeeeeeeeeeeeeeeeeeeeeeeeeeeeeeeeeeeeeeeeeeeeeeeffddffeeeeeeeeeeeee
+    eeeeeeeeeeeefddbffeeeeeeeeeeeeeeeeeeeeeeeeeeeeeeeeeeeeeeeeeeeeeeeeeeeeeeeeeeeeeeeeeeeeeeeeeeeeeeeeeeeeeeeeeeeeeeeeeeeeeeeeeeeeeeeeeeeeeeeeeeeeffdbffffeeeeeeeeee
+    eeeeeeeeeeeefbdfeeeeeeeeeeeeeeeeeeeeeeeeeeeeeeeeeeeeeeeeeeeeeeeeeeeeeeeeeeeeeeeeeeeeeeeeeeeeeeeeeeeeeeeeeeeeeeeeeeeeeeeeeeeeeeeeeeeeeeeeeeeeeeeffdddbfeeeeeeeeee
+    eeeeeeeeeeeeffffeeeeeeeeeeeeeeeeeeeeeeeeeeeeeeeeeeeeeeeeeeeeeeeeeeeeeeeeeeeeeeeeeeeeeeeeeeeeeeeeeeeeeeeeeeeeeeeeeeeeeeeeeeeeeeeeeeeeeeeeeeeeeeeefddddfeeeeeeeeee
+    eeeeeeeeeeeeeeeeeeeeeeeeeeeeeeeeeeeeeeeeeeeeeeeeeeeeeeeeeeeeeeeeeeeeeeeeeeeeeeeeeeeeeeeeeeeeeeeeeeeeeeeeeeeeeeeeeeeeeeeeeeeeeeeeeeeeeeeeeeeeeeeefddbffeeeeeeeeee
+    eeeeeeeeeeeeeeeeeeeeeeeeeeeeeeeeeeeeeeeeeeeeeeeeeeeeeeeeeeeeeeeeeeeeeeeeeeeeeeeeeeeeeeeeeeeeeeeeeeeeeeeeeeeeeeeeeeeeeeeeeeeeeeeeeeeeeeeeeeeeeeeefbdfeeeeeeeeeeee
+    eeeeeeeeeeeeeeeeeeeeeeeeeeeeeeeeeeeeeeeeeeeeeeeeeeeeeeeeeeeeeeeeeeeeeeeeeeeeeeeeeeeeeeeeeeeeeeeeeeeeeeeeeeeeeeeeeeeeeeeeeeeeeeeeeeeeeeeeeeeeeeeeffffeeeeeeeeeeee
+    eeeeeeeeeeeeeeeeeeeeeeeeeeeeeeeeeeeeeeeeeeeeeeeeeeeeeeeeeeeeeeeeeeeeeeeeeeeeeeeeeeeeeeeeeeeeeeeeeeeeeeeeeeeeeeeeeeeeeeeeeeeeeeeeeeeeeeeeeeeeeeeeeeeeeeeeeeeeeeee
+    eeeeeeeeeeeeeeeeeeeeeeeeeeeeeeeeeeeeeeeeeeeeeeeeeeeeeeeeeeeeeeeeeeeeeeeeeeeeeeeeeeeeeeeeeeeeeeeeeeeeeeeeeeeeeeeeeeeeeeeeeeeeeeeeeeeeeeeeeeeeeeeeeeeeeeeeeeeeeeee
+    eeeeeeeeeeeeeeeeeeeeeeeeeeeeeeeeeeeefffffffeeeeeeeeeeeeeeeeeeeeeeeeeeeeeeeeeeeeeeeeeeeeeeeeeeeeeeeeeeeeeeeeeeeeeeeeeeeeeeeeeeeeeeeeeeeeeeeeeeeeeeeeeeeeeeeeeeeee
+    eeeeeeeeeeeeeeeeeeeeeeeefffffffffffffddddddffeeeeeeeeeeeeeeeeeeeeeeeeeeeeeeeeeeeeeeeeeeeeeeeeeeeeeeeeeeeeeeeeeeeeeeeeeeeeeeeeeeeeeeeeeeeeeeeeeeeeeeeeeeeeeeeeeee
+    eeeeeeeeeeeeeeeeeeeeeefffdddddddddddddffddddfeeeeeeeeeeeeeeeeeeeeeeeeeeeeeeeeeeeeeeeeeeeeeeeeeeeeeeeeeeeeeeeeeeeeeeeeeeeeeeeeeeeeeeeeeeeeeeeeeeeeeeeeeeeeeeeeeee
+    eeeeeeeeeeeeeeeeeeeeeefffdddddddddddddffddddfeeeeeeeeeeeeeeeeeeeeeeeeeeeeeeeeeeeeeeeeeeeeeeeeeeeeeeeeeeeeeeeeeeeeeeeeeeeeeeeeeeeeeeeeeeeeeeeeeeeeeeeeeeeeeeeeeee
+    eeeeeeeeeeeeeeeeeeeeeffdddddddddffffdddffdddfeeeeeeeeeeeeeeeeeeeeeeeeeeeeeeeeeeeeeeeeeeeeeeeeeeeeeeeeeeeeeeeeeeeeeeeeeeeeeeeeeeeeeeeeeeeeeeeeeeeeeeeeeeeeeeeeeee
+    eeeeeeeeeeeeeeeeeeeeffdddfffddffffffdddddddffeeeeeeeeeeeeeeeeeeeeeeeeeeeeeeeeeeeeeeeeeeeeeeeeeeeeeeeeeeeeeeeeeeeeeeeeeeeeeeeeeeeeeeeeeeeeeeeeeeeeeeeeeeeeeeeeeee
+    eeeeeeeeeeeeeeeeeeeffdddfffffdfffffddddddbdfeeeeeeeeeeeeeeeeeeeeeeeeeeeeeeeeeeeeeeeeeeeeeeeeeeeeeeeeeeeeeeeeeeeeeeeeeeeeeeeeeeeeeeeeeeeeeeeeeeeeeeeeeeeeeeeeeeee
+    eeeeeeeeeeeeeeeeeeffdddffffffdddddddddbfdfdfeeeeeeeeeeeeeeeeeeeeeeeeeeeeeeeeeeeeeeeeeeeeeeeeeeeeeeeeeeeeeeeeeeeeeeeeeeeeeeeeeeeeeeeeeeeeeeeeeeeeeeeeeeeeeeeeeeee
+    eeeeeeeeeeeeeeeeeefddddfffffddddddddfdffdfdfeeeeeeeeeeeeeeeeeeeeeeeeeeeeeeeeeeeeeeeeeeeeeeeeeeeeeeeeeeeeeeeeeeeeeeeeeeeeeeeeeeeeeeeeeeeeeeeeeeeeeeeeeeeeeeeeeeee
+    eeeeeeeeeeeeeeeeeefdddddfffdddddfffdffffffffeeeeeeeeeeeeeeeeeeeeeeeeeeeeeeeeeeeeeeeeeeeeeeeeeeeeeeeeeeeeeeeeeeeeeeeeeeeeeeeeeeeeeeeeeeeeeeeeeeeeeeeeeeeeeeeeeeee
+    eeeeeeeeeeeeeeeeeefdddddddddfffffefffeeeeeeeeeeeeeeeeeeeeeeeeeeeeeeeeeeeeeeeeeeeeeeeeeeeeeeeeeeeeeeeeeeeeeeeeeeeeeeeeeeeeeeeeeeeeeeeeeeeeeeeeeeeeeeeeeeeeeeeeeee
+    eeeeeeeeeeeeeeeeeeffdddbbbbffeeeeeeeeeeeeeeeeeeeeeeeeeeeeeeeeeeeeeeeeeeeeeeeeeeeeeeeeeeeeeeeeeeeeeeeeeeeeeeeeeeeeeeeeeeeeeeeeeeeeeeeeeeeeeeeeeeeeeeeeeeeeeeeeeee
+    eeeeeeeeeeeeeeeefffffbddddbbfffffeeeeeeeeeeeeeeeeeeeeeeeeeeeeeeeeeeeeeeeeeeeeeeeeeeeeeeeeeeeeeeeeeeeeeeeeeeeeeeeeeeeeeeeeeeeeeeeeeeeeeeeeeeeeeeeeeeeeeeeeeeeeeee
+    eeeeeeeeeeeeeeeefdffefddddddddddffffffffffffeeeeeeeeeeeeeeeeeeeeeeeeeeeeeeeeeeeeeeeeeeeeeeeeeeeeeeeeeeeeeeeeeeeeeeeeeeeeeeeeeeeeeeeeeeeeeeeeeeeeeeeeeeeeeeeeeeee
+    eeeeeeeeeeeeeeeefddfffdddddddddddffddddfdfdfeeeeeeeeeeeeeeeeeeeeeeeeeeeeeeeeeeeeeeeeeeeeeeeeeeeeeeeeeeeeeeeeeeeeeeeeeeeeeeeeeeeeeeeeeeeeeeeeeeeeeeeeeeeeeeeeeeee
+    eeeeeeeeeeeeeefffbbdfffddddddddddddddddbdbdfeeeeeeeeeeeeeeeeeeeeeeeeeeeeeeeeeeeeeeeeeeeeeeeeeeeeeeeeeeeeeeeeeeeeeeeeeeeeeeeeeeeeeeeeeeeeeeeeeeeeeeeeeeeeeeeeeeee
+    eeeeeeeeeeeefffddfffffeffdddddddddddddddddffeeeeeeeeeeeeeeeeeeeeeeeeeeeeeeeeeeeeeeeeeeeeeeeeeeeeeeeeeeeeeeeeeeeeeeeeeeeeeeeeeeeeeeeeeeeeeeeeeeeeeeeeeeeeeeeeeeee
+    eeeeeeeeeeeefdbbdddfbfeeffffdddddddffffffffeeeeeeeeeeeeeeeeeeeeeeeeeeeeeeeeeeeeeeeeeeeeeeeeeeeeeeeeeeeeeeeeeeeeeeeeeeeeeeeeeeeeeeeeeeeeeeeeeeeeeeeeeeeeeeeeeeeee
+    eeeeeeeeeeeefddbbfffdfeeeeefffffffffeeeeeeeeeeeeeeeeeeeeeeeeeeeeeeeeeeeeeeeeeeeeeeeeeeeeeeeeeeeeeeeeeeeeeeeeeeeeeeeeeeeeeeeeeeeeeeeeeeeeeeeeeeeeeeeeeeeeeeeeeeee
+    eeeeeeeeeeffffdddfefdffeeeeeeeeeeeeeeeeeeeeeeeeeeeeeeeeeeeeeeeeeeeeeeeeeeeeeeeeeeeeeeeeeeeeeeeeeeeeeeeeeeeeeeeeeeeeeeeeeeeeeeeeeeeeeeeeeeeeeeeeeeeeeeeeeeeeeeeee
+    eeeeeeeeeefbbfffffffddffeeeefffffeeeeefffffeeeeeeeeeeeeeeeeeeeeeeeeeeeeeeeeeeeeeeeeeeeeeeeeeeeeeeeeeeeeeeeeeeeeeeeeeeeeeeeeeeeeeeeeeeeeeeeeeeeeeeeeeeeeeeeeeeeee
+    eeeeeeeeeeffbbbfffdbdddffffefdddbfffffbdddffeeeeeeeeeeeeeeeeeeeeeeeeeeeeeeeeeeeeeeeeeeeeeeeeeeeeeeeeeeeeeeeeeeeeeeeeeeeeeeeeeeeeeeeeeeeeeeeeeeeeeeeeeeeeeeeeeeee
+    eeeeeeeeeeefffffdfdbbdddddfefddddddddbbbbddfeeeeeeeeeeeeeeeeeeeeeeeeeeeeeeeeeeeeeeeeeeeeeeeeeeeeeeeeeeeeeeeeeeeeeeeeeeeeeeeeeeeeeeeeeeeeeeeeeeeeeeeeeeeeeeeeeeee
+    eeeeeeeeeeefffffdfdbbdddddfefddddddddbbbbddfeeeeeeeeeeeeeeeeeeeeeeeeeeeeeeeeeeeeeeeeeeeeeeeeeeeeeeeeeeeeeeeeeeeeeeeeeeeeeeeeeeeeeeeeeeeeeeeeeeeeeeeeeeeeeeeeeeee
+    eeeeeeeeeeffbbbfdbddbbbffffeffffffdddbddbfdfeeeeeeeeeeeeeeeeeeeeeeeeeeeeeeeeeeeeeeeeeeeeeeeeeeeeeeeeeffffeeeeeeeeeeeeeeeeeeeeeeeeeeeeeeeeeeeeeeeeeeeeeeeeeeeeeee
+    eeeeeeeeeefbbfffdbbdddffffffeeeeeffffbbbdfffeeeeeeeeeeeeeeeeeeeeeeeeeeeeeeeeeeeeeeeeeeeeeeeeeeeeeeeeefbdfeeeeeeeeeeeeeeeeeeeeeeeeeeeeeeeeeeeeeeeeeeeeeeeeeeeeeee
+    eeeeeeeeeefffffbddbbdddddddfeeeeeeeeffdbdfeeeeeeeeeeeeeeeeeeeeeeeeeeeeeeeeeeeeeeeeeeeeeeeeeeeeeeeeeeefddbffeeeeeeeeeeeeeeeeeeeeeeeeeeeeeeeeeeeeeeeeeeeeeeeeeeeee
+    eeeeeeeeeefbbfdbbddbbfffffffeeeeeeeffddfdfeeeeeeeeeeeeeeeeeeeeeeeeeeeeeeeeeeeeeeeeeeeeeeeeeeeeeeeeeeffddddfeeeeeeeeeeeeeeeeeeeeeeeeeeeeeeeeeeeeeeeeeeeeeeeeeeeee
+    eeeeeeeeeefbffdbbbdddddddfeeeeeeeeefddffffeeeeeeeeeeeeeeeeeeeeeeeeeeeeeeeeeeeeeeeeeeeeeeeeeeeeeeeeeffbdddbfeeeeeeeeeeeeeeeeeeeeeeeeeeeeeeeeeeeeeeeeeeeeeeeeeeeee
+    eeeeeeeeeeffffdddbbfffffffeeeeeeeeeffffffffffeeeeeeeeeeeeeeeeeeeeeeeeeeeeeeeeeeeeeeeeeeeeeeeeeeeeeffddfffffeeeeeeeeeeeeeeeeeeeeeeeeeeeeeeeeeeeeeeeeeeeeeeeeeeeee
+    eeeeeeeeeeffdffdddfeeeeeeeeeeeeeeeeeeeffdffdfeeeeeeeeeeeeeeeeeeeeeeeeeeeeeeeeeeeeeeeeeeeeeeeeeeefffddffeeeeeeeeeeeeeeeeeeeeeeeeeeeeeeeeeeeeeeeeeeeeeeeeeeeeeeeee
+    eeeeeeeeeffddffffffeeeeeeeeeeeeeeeeeeefddffdffeeeeeeeeeeeeeeeeeeeeeeeeeeeeeeeeeeeeeeeeeeeeeeeeefffddffeeeeeeeeeeeeeeeeeeeeeeeeeeeeeeeeeeeeeeeeeeeeeeeeeeeeeeeeee
+    eeeeeeeeefddbffffeeeeeeeeeeffffffffeeffddffdbfeeeeeeeeeeeeeeeeeeeeeeeeeeeeeeeeeeeeeeeeeeeeeeffffbbdffeeeeeeeeeeeeeeeeeeeeeeeeeeeeeeeeeeeeeeeeeeeeeeeeeeeeeeeeeee
+    eeeeeeeeeffbbfddfeeeeeeeeeefddbbbdffefddfffddfeeeeeeeeeeeeeeeeeeeeeeeeeeeeeeeeeeeeeeeeeeeeeefbddddffeeeeeeeeeeeeeeeeeeeeeeeeeeeeeeeeeeeeeeeeeeeeeeeeeeeeeeeeeeee
+    feeeeeeeeefdddbbffeeeeeeeeffddbbdddfefdffffbdfeeeeeeeeeeeeeeeeeeeeeeeeeeeeeeeeeeeefeeeeeeeeefdddddfeeeeeeeeeeeeeeeeeeeeeeeefeeeeeeeeeeeeeeeeeeeeeeeeeeeeeeeeeeee
+    eeeeeeeefefffbbddfeeeeeeeefddffffddfffffeffbffeeefeeeeeeeeeeeeeeeeeeefeeeeeeeeeeeeeeeeeeeefeffbdddfeeeeeeeeeeefeeeeeeeeeeeeeeeeeeeeefeeeeeeeeeeeeeeeeeefeeeeeeee
+    efffffeeeeeefdddbffeeffffffddfeeffddfffeefdbfffeeeeeeeeeeefeeefffffeeeeeeeefeeeeeeefffffeeeeeefdbbfefeeeffffeeeeeeeefeeeeeeefffffeeeeeefffffefeeeffffeeeeeeeefee
+    fffeffffeeeefdfbbdfffffffbddffffeffdffeeffddfffffeeeeffeeeeefffffffffeeffeeeeefeeffffeffffeeeefffffeeeffffffffeeffeeeeefeeffffefffffeeefbdbfeeeffffffffeeffeeeee
+    fffffffffeeefffbdbffddddffbdffffeefffeefffbdffffffeeeffeeeeffeffffffffeffeeeeeeefffffffffffeeeffeeeeeffefffffffeffeeeeeeefffffffffffffffdddfeeffefffffffeffeeeee
+    efffffffffeeeefddffbdffddfbbfeeeeeeeeefffdbbfffffffeeeeeeefffffffffffffeeeeeeeeffeefffffffffeeeeeeeeffffffffffffeeeeeeeeffeeffffffffffbdddbffffffffffffffeeeeeee
+    efffffffffffeefffffddfffdeffffffeeeeffffbddffffffffffeeefffffffffffeeffffeeeeffffeefffffffffffeeeeffffffffffeeffffeeeeffffeeffffffffffddddddbffffffffeeffffeeeef
+    fffffffffffffffffffdddffdddffffffffffffdbbdfffffffffffffffffffbddbfeefffffffffffffffffffffffffffffffffffffffeeffffffffffffffffffffffffbddbddddbfffffffefffffffff
+    fffffffffffffffffffdddffdddffffffffffffdbbdfffffffffffffffffffbddbfeefffffffffffffffffffffffffffffffffffffffeeffffffffffffffffffffffffbddbddddbfffffffefffffffff
+    ffffffffeeffffffeefffddddddfffffffffdbddfffffffffeeffffffeefffddddfffffeffffffefffffffffffeefffffffeefffffffffffeffffffeffffffffffffeffffffbddddbbddbffffeffffff
+    ffffffffeeffffffeefffddddddfffdddbbddbdffffffffffeeffffffeefffbddddbffffffeeffffffffffffffeefffffffeeffffffffffffffeefffffffffffffffeefffffffbdddddddfffffffeeff
+    ffffffffffffefffffffffdddddffdddfbddfffffffffffffffffeffffffbdddddddffffffeeffffffffffffffffffeffffffffffffffffffffeefffffffffffffffffffefffffffdddddfffffffeeff
+    fffffffffffffffffffffffdddffffffffffffffffffffffffffffffffbddddbbddbffffffffffffffffffffffffffffffffffffffffffffffffffffffffffffffffffffffffffffdddbffffffffffff
+    ffffffffffffffffffffffffffffffffffffffffffffffffffffbddbbddddbffffffffffffffffffffffffffffffffffffffffffffffffffffffffffffffffffffffffffffffffffbddfffffffffffff
+    ffffffffffffffffffffffffffffffffffffffffffffffffffffdddddddbffffffffffffffffffffffffffffffffffffffffffffffffffffffffffffffffffffffffffffffffffffffffffffffffffff
+    ffffffffffffffffffffffffffffffffffffffffffffffffffffdddddfffffffffffffffffffffffffffffffffffffffffffffffffffffffffffffffffffffffffffffffffffffffffffffffffffffff
+    fffffffffffffffffffffffffffffffffffffffffffffffffffffbdddfffffffffffffffffffffffffffffffffffffffffffffffffffffffffffffffffffffffffffffffffffffffffffffffffffffff
+    ffffffffffffffffffffffffffffffffffffffffffffffffffffffddbfffffffffffffffffffffffffffffffffffffffffffffffffffffffffffffffffffffffffffffffffffffffffffffffffffffff
+    ffffffffffffffffffffffffffffffffffffffffffffffffffffffffffffffffffffffffffffffffffffffffffffffffffffffffffffffffffffffffffffffffffffffffffffffffffffffffffffffff
+    ffffffffffffffffffffffffffffffffffffffffffffffffffffffffffffffffffffffffffffffffffffffffffffffffffffffffffffffffffffffffffffffffffffffffffffffffffffffffffffffff
+    ffffffffffffffffffffffffffffffffffffffffffffffffffffffffffffffffffffffffffffffffffffffffffffffffffffffffffffffffffffffffffffffffffffffffffffffffffffffffffffffff
+    ffffffffffffffffffffffffffffffffffffffffffffffffffffffffffffffffffffffffffffffffffffffffffffffffffffffffffffffffffffffffffffffffffffffffffffffffffffffffffffffff
+    ffffffffffffffffffffffffffffffffffffffffffffffffffffffffffffffffffffffffffffffffffffffffffffffffffffffffffffffffffffffffffffffffffffffffffffffffffffffffffffffff
+    ffffffffffffffffffffffffffffffffffffffffffffffffffffffffffffffffffffffffffffffffffffffffffffffffffffffffffffffffffffffffffffffffffffffffffffffffffffffffffffffff
+    ffffffffffffffffffffffffffffffffffffffffffffffffffffffffffffffffffffffffffffffffffffffffffffffffffffffffffffffffffffffffffffffffffffffffffffffffffffffffffffffff
+    ffffffffffffffffffffffffffffffffffffffffffffffffffffffffffffffffffffffffffffffffffffffffffffffffffffffffffffffffffffffffffffffffffffffffffffffffffffffffffffffff
+    ffffffffffffffffffffffffffffffffffffffffffffffffffffffffffffffffffffffffffffffffffffffffffffffffffffffffffffffffffffffffffffffffffffffffffffffffffffffffffffffff
+"""))
 NewSprite = sprites.create(assets.image("""
     Hero
 """), SpriteKind.player)
@@ -38,12 +134,14 @@ New_Food2 = sprites.create(assets.image("""
     Burger
 """), SpriteKind.food)
 NewFood.x = randint(10, 150)
+NewFood.y = randint(10, 150)
 New_Food2.x = randint(10, 150)
+New_Food2.y = randint(10, 150)
 info.set_score(0)
 info.start_countdown(25)
 EvilPerson1.x = randint(1, 1)
 EvilPerson1.y = randint(1, 1)
-EvilPerson2.x = randint(20, 20)
-EvilPerson2.y = randint(20, 20)
-EvilPerson1.follow(NewSprite, 60)
-EvilPerson2.follow(NewSprite, 60)
+EvilPerson2.x = randint(80, 80)
+EvilPerson2.y = randint(80, 80)
+EvilPerson1.follow(NewSprite, 80)
+EvilPerson2.follow(NewSprite, 80)
